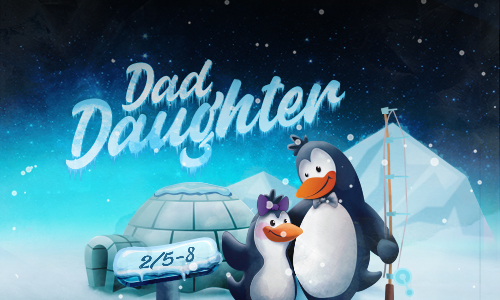
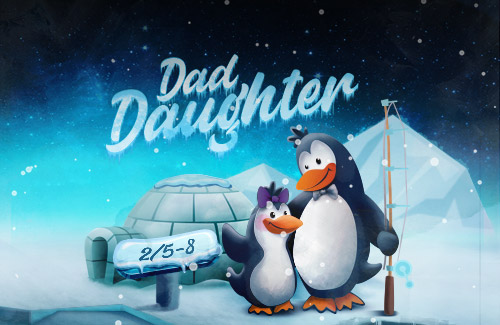
Update CSS and Mobile hero image
Former-commit-id: b225ad9982f4ea726bd55761dab3c143a3c20f9c

diff --git a/RockWeb/Themes/church_ccv_External_v8/Styles/pages/stand-alone/2019/dad-daughter-dance.css b/RockWeb/Themes/church_ccv_External_v8/Styles/pages/stand-alone/2019/dad-daughter-dance.css
@@ -168,6 +168,6 @@ p {
 @media screen and (max-width: 500px) {
     .main-feature {
         padding-top: 90px;
-        height: 300px;
+        height: 330px;
     }
 }
